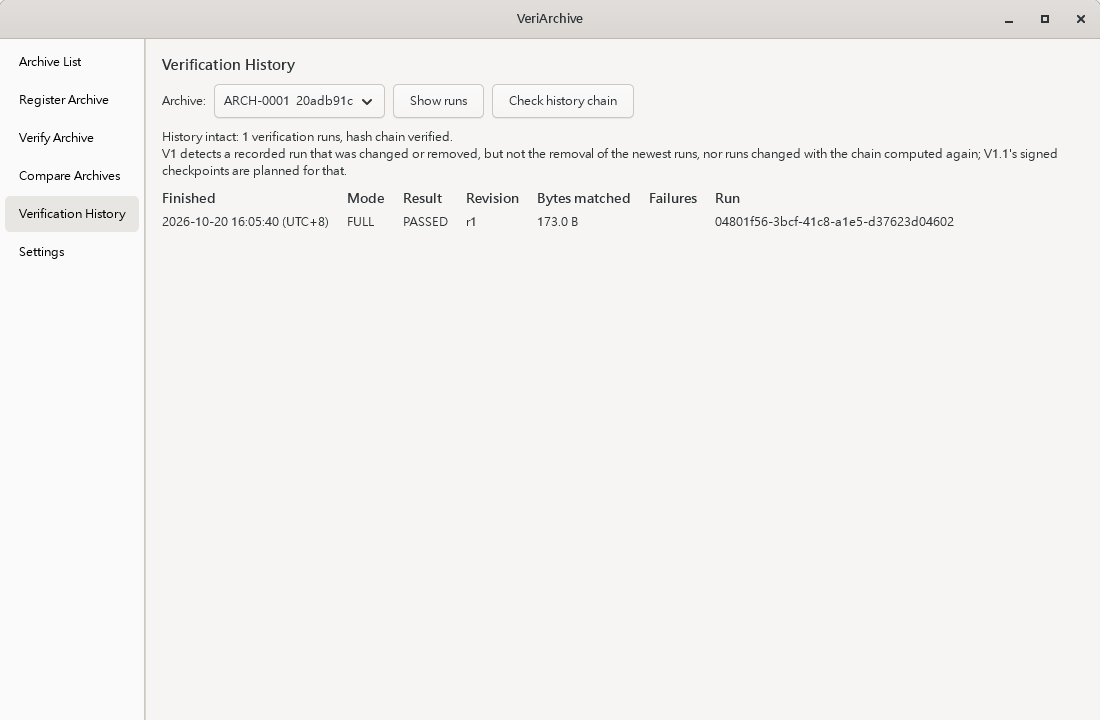
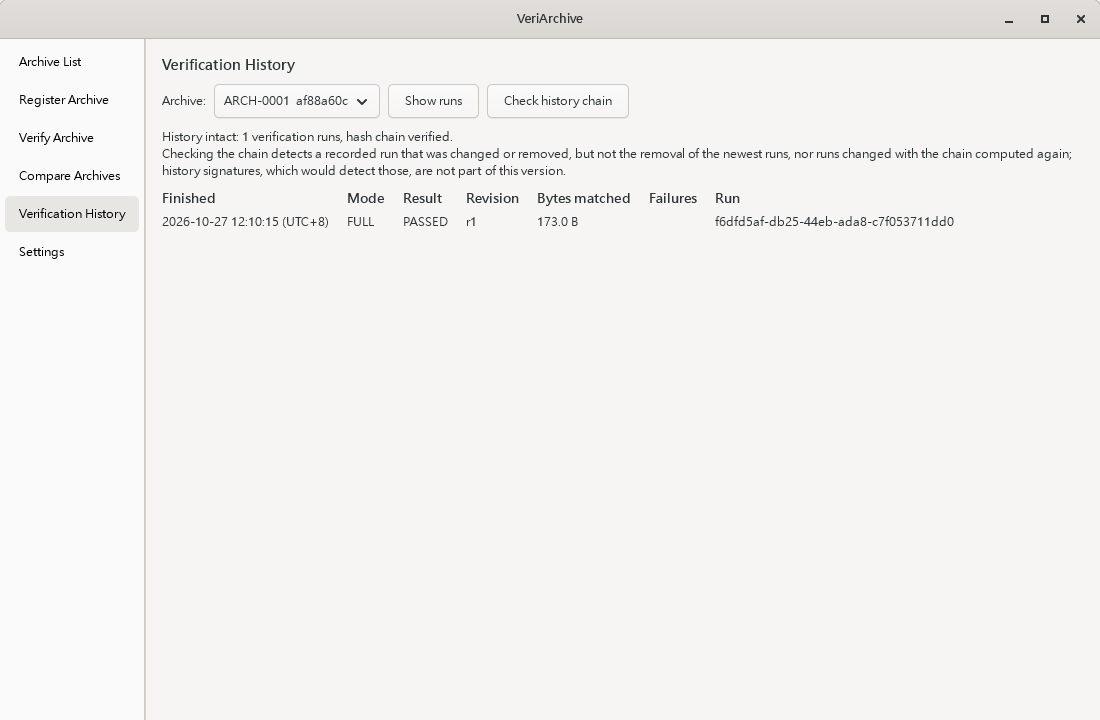
fix: say what this version does not do instead of naming v1.1
- Word R-02's guarantee in every verify report of the CLI and the GUI as "VeriArchive detects accidental corruption and unintended change; tamper evidence (signed manifests) is not part of this version.", which stays true in 1.0.0 and 1.1.0, and keep the --json member guarantee with that sentence
- Refuse --quick and --deep with "QUICK and DEEP verification are not available in this version; use --full"
- Say in Settings that signed manifests are not part of this version, and after a check of the history chain that history signatures, which would detect the runs the chain cannot, are not part of this version
- Translate them with the agreed terms 歷程簽章 for history signatures, never 簽章檢查點, and 受信任的金鑰 for trusted keys
- Reword README.md and both guides the same way, and say in the guides that QUICK and DEEP verification are not part of this version
- Fail the catalog test on any entry that names a version of the program, and check the guarantee, its --json member, the refusal and the history note in both languages in the end-to-end test
- Take the screenshots of both guides again from the tool's sample data, as Settings, Verify Archive and Verification History show the new texts
- Record in decision 0017 that interface texts name no version of the program, and note it at R-02

diff --git a/src/app/text_zh_tw.cpp b/src/app/text_zh_tw.cpp
@@ -119,11 +119,13 @@ constexpr CatalogEntry entries[] = {
     {"first-run:home", "第一次使用（個人資料夾）"},
     {"History intact: {} verification runs, hash chain verified.",
         "歷程完整：共 {} 次驗證執行，雜湊鏈已驗證。"},
-    // What a check of the chain tells in V1, from src/app/history.h; the GUI shows it too.
-    {"V1 detects a recorded run that was changed or removed, but not the removal of the newest runs, nor runs "
-        "changed with the chain computed again; V1.1's signed checkpoints are planned for that.",
-        "V1 可偵測已記錄的執行紀錄被修改或刪除，但偵測不到最新幾筆執行紀錄被刪除，也偵測不到修改後連雜湊鏈都"
-        "重新計算過的紀錄；V1.1 預計以簽章檢查點補上這一點。"},
+    // What a check of the chain tells, from src/app/history.h; the GUI shows it too.
+    // Signed history checkpoints are 歷程簽章, kept apart from the 檢查點 of a resume.
+    {"Checking the chain detects a recorded run that was changed or removed, but not the removal of the newest "
+        "runs, nor runs changed with the chain computed again; history signatures, which would detect those, are "
+        "not part of this version.",
+        "檢查歷程鏈可偵測已記錄的執行紀錄被修改或刪除，但偵測不到最新幾筆執行紀錄被刪除，也偵測不到修改後連雜湊鏈都"
+        "重新計算過的紀錄；能偵測這些情況的歷程簽章，這個版本尚未提供。"},
     {"History BROKEN at run {}: {}", "歷程於執行 {} 處斷裂：{}"},
     {"previous row was deleted or edited (prev_hash does not link)",
         "前一筆紀錄已被刪除或修改（prev_hash 無法銜接）"},
@@ -209,11 +211,11 @@ constexpr CatalogEntry entries[] = {
         "若要繼續，請執行：veriarchive-cli verify --full {} --resume {}"},
     {"resumed from run: {}", "已從執行 {} 繼續"},
     {"run: {}", "執行：{}"},
-    {"V1 detects accidental corruption and unintended change; "
-        "tamper evidence (signed manifests) begins in V1.1.",
-        "V1 可偵測意外損毀與非預期的變更；竄改證據（簽章清單檔）自 V1.1 起提供。"},
-    {"QUICK and DEEP verification arrive in V1.1; use --full",
-        "快速驗證與深度驗證將於 V1.1 提供；請使用 --full"},
+    {"VeriArchive detects accidental corruption and unintended change; "
+        "tamper evidence (signed manifests) is not part of this version.",
+        "VeriArchive 能偵測意外損毀與非預期的變更；這個版本尚未提供竄改證據（簽章清單檔）。"},
+    {"QUICK and DEEP verification are not available in this version; use --full",
+        "這個版本尚未提供快速驗證與深度驗證；請使用 --full"},
     {"usage: verify --full <root_path|archive_uuid> [--strict-metadata] [--io hdd|ssd] "
         "[--resume RUN_ID]",
         "用法：verify --full <root_path|archive_uuid> [--strict-metadata] [--io hdd|ssd] "
@@ -521,8 +523,8 @@ constexpr CatalogEntry entries[] = {
         "逾期期限：完整驗證 {} 天，任何驗證 {} 天"},
     {"Strict metadata: on", "嚴格中繼資料：開啟"},
     {"Strict metadata: off", "嚴格中繼資料：關閉"},
-    {"Trusted signing keys: signed manifests arrive in V1.1.",
-        "受信任的簽章金鑰：簽章清單檔將於 V1.1 提供。"},
+    {"Trusted signing keys: signed manifests are not part of this version.",
+        "受信任的金鑰：這個版本尚未提供簽章清單檔。"},
     {"Back up RepositoryRoot. Losing it loses all verification history; "
         "manifests can be recovered only from media copies, if they were written.",
         "請備份儲存庫根目錄。遺失它會失去所有驗證歷程；"

diff --git a/tests/unit/text_test.cpp b/tests/unit/text_test.cpp
@@ -42,6 +42,24 @@ std::size_t occurrences(std::string_view text, std::string_view part)
     return count;
 }
 
+// True when `text` names a version of the program as the specification does,
+// "V" and a digit at the start of a word ("V1", "V1.1"): an interface text that
+// promises something for a version stays true in no other (decision 0017).
+bool names_a_version(std::string_view text)
+{
+    const auto letter_or_digit = [](char character) {
+        return (character >= 'a' && character <= 'z') || (character >= 'A' && character <= 'Z') ||
+               (character >= '0' && character <= '9');
+    };
+    for (std::size_t index = 0; index + 1 < text.size(); ++index) {
+        if (text[index] == 'V' && text[index + 1] >= '0' && text[index + 1] <= '9' &&
+            (index == 0 || !letter_or_digit(text[index - 1]))) {
+            return true;
+        }
+    }
+    return false;
+}
+
 // True when every brace in `text` belongs to a placeholder: "{}", or with
 // `positional` also "{0}", "{1}", ... Format specs ("{:s}") and escaped braces
 // are left out on purpose: engine sentences are filled by the simple matcher in
@@ -72,7 +90,8 @@ bool plain_placeholders(std::string_view text, bool positional)
 // that take the same values, each value exactly once, written only as "{}"
 // (and "{0}", "{1}", ... in the translation); no English text appears twice; a
 // template matched against sentences has enough literal text that it cannot
-// match everything; the match mode fits the template.
+// match everything; the match mode fits the template. No entry names a version
+// of the program: what a version does not do yet is said of "this version".
 void catalog_tests()
 {
     std::set<std::string_view> seen;
@@ -80,6 +99,12 @@ void catalog_tests()
         const bool unique = seen.insert(entry.english).second;
         CHECK(unique);
         CHECK(!entry.english.empty() && !entry.translation.empty());
+
+        const bool versionless = !names_a_version(entry.english) && !names_a_version(entry.translation);
+        CHECK(versionless);
+        if (!versionless) {
+            std::cerr << "  names a version of the program: " << entry.english << '\n';
+        }
 
         const bool plain = plain_placeholders(entry.english, false) &&
                            plain_placeholders(entry.translation, true);
@@ -230,11 +255,12 @@ void translation_tests()
     CHECK(chinese("error: 12 entries carry portability warnings") ==
           "錯誤：12 entries carry portability warnings");
 
-    // What a check of the history chain tells in V1 (app/history.h), which
-    // the command line and the GUI show after a chain that holds.
+    // What a check of the history chain tells (app/history.h), which the
+    // command line and the GUI show after a chain that holds. Signed history
+    // checkpoints are 歷程簽章, never the 檢查點 of a resume.
     CHECK(chinese(va::app::history_chain_limits) ==
-          "V1 可偵測已記錄的執行紀錄被修改或刪除，但偵測不到最新幾筆執行紀錄被刪除，也偵測不到修改後連雜湊鏈都"
-          "重新計算過的紀錄；V1.1 預計以簽章檢查點補上這一點。");
+          "檢查歷程鏈可偵測已記錄的執行紀錄被修改或刪除，但偵測不到最新幾筆執行紀錄被刪除，也偵測不到修改後連雜湊鏈都"
+          "重新計算過的紀錄；能偵測這些情況的歷程簽章，這個版本尚未提供。");
 
     // FormatOnly templates are used through format and never match sentences.
     CHECK(chinese.format("{} archives", 3) == "3 個封存");

diff --git a/src/app/history.h b/src/app/history.h
@@ -11,14 +11,17 @@
 namespace va::app {
 
 // What a check of the history's hash chain (R-18, R-90: `repo
-// verify-history`, Check history chain) tells in V1, shown after a chain
-// that holds. The chain links each run to the one before it, so a changed run
+// verify-history`, Check history chain) tells, shown after a chain that
+// holds. The chain links each run to the one before it, so a changed run
 // breaks it, and so does a removed run that later runs follow; the newest runs
 // removed, or runs changed by someone who computes the chain again, leave a
-// chain that holds. V1.1's signed checkpoints (R-76) are planned for that.
+// chain that holds. Signed history checkpoints (R-76), history signatures in
+// the interface, would tell those; the text names no version of the program
+// for them (decision 0017).
 inline constexpr std::string_view history_chain_limits =
-    "V1 detects a recorded run that was changed or removed, but not the removal of the newest runs, nor runs "
-    "changed with the chain computed again; V1.1's signed checkpoints are planned for that.";
+    "Checking the chain detects a recorded run that was changed or removed, but not the removal of the newest "
+    "runs, nor runs changed with the chain computed again; history signatures, which would detect those, are "
+    "not part of this version.";
 
 // What else a run is, in the words shown beside it: "interrupted relocation
 // attempt" for an attempt of a relocation that was interrupted (recorded

diff --git a/src/cli/verify_commands.cpp b/src/cli/verify_commands.cpp
@@ -15,10 +15,11 @@
 namespace va::cli {
 namespace {
 
-// R-02. Translated in text output; --json keeps the English sentence.
+// R-02. Translated in text output; --json keeps the English sentence. It names
+// no version of the program (decision 0017).
 constexpr const char* guarantee =
-    "V1 detects accidental corruption and unintended change; tamper evidence "
-    "(signed manifests) begins in V1.1.";
+    "VeriArchive detects accidental corruption and unintended change; tamper evidence "
+    "(signed manifests) is not part of this version.";
 
 int result_code(const std::string& result)
 {
@@ -115,7 +116,7 @@ int verify_command(const Arguments& arguments)
 {
     if (arguments.has("--quick") || arguments.has("--deep")) {
         return report_failure(arguments, {exit_code::usage,
-            "QUICK and DEEP verification arrive in V1.1; use --full"});
+            "QUICK and DEEP verification are not available in this version; use --full"});
     }
     if (const auto problem = check_options(arguments, {"--full", "--strict-metadata"}, {"--io", "--resume"})) {
         return report_failure(arguments, *problem);

diff --git a/src/gui/settings_view.cpp b/src/gui/settings_view.cpp
@@ -58,7 +58,7 @@ void refresh_settings(GuiState& state)
                text.format("Overdue after: FULL verify {} days, any verify {} days",
                    policy.full_verify_max_age_days, policy.any_verify_max_age_days) + "\n" +
                text(policy.strict_metadata ? "Strict metadata: on" : "Strict metadata: off") + "\n\n" +
-               text("Trusted signing keys: signed manifests arrive in V1.1.") + "\n\n" +
+               text("Trusted signing keys: signed manifests are not part of this version.") + "\n\n" +
                text("Back up RepositoryRoot. Losing it loses all verification history; manifests "
                     "can be recovered only from media copies, if they were written.");
         for (const auto& warning : state.session->warnings) {

diff --git a/src/gui/verify_view.cpp b/src/gui/verify_view.cpp
@@ -17,8 +17,8 @@ namespace va::gui {
 namespace {
 
 constexpr const char* guarantee =
-    "V1 detects accidental corruption and unintended change; tamper evidence (signed manifests) "
-    "begins in V1.1.";
+    "VeriArchive detects accidental corruption and unintended change; tamper evidence (signed manifests) "
+    "is not part of this version.";
 
 std::string report(const app::Text& text, const VerifyOutcome& outcome)
 {

diff --git a/design/decisions/0017-interface-language.md b/design/decisions/0017-interface-language.md
@@ -1,7 +1,7 @@
 ---
 status: accepted
 date: 2026-10-08
-amends: HANDOFF §B7.3 (config keys), §B16 (global options), §B17 (Settings)
+amends: HANDOFF §B7.3 (config keys), §B16 (global options), §B17 (Settings); R-02 (§A1: how reports and the GUI word the guarantee, 2026-10-27)
 ---
 
 # The interface speaks English and Traditional Chinese
@@ -34,6 +34,19 @@ On Windows the CLI writes text for a console window as UTF-16 (`WriteConsoleW`),
 
 If the GUI ends unexpectedly, it appends the reason to `veriarchive-gui.log` in the user config folder (`%APPDATA%\VeriArchive` on Windows); an exception in a button or other GTK callback is shown in the view instead of ending the program.
 
+## What this version does not do (2026-10-27)
+
+The texts of the CLI and the GUI, the catalog, the user guides and the README never name a version of the program (V1, V1.1, 1.0.0) for what it does or does not do. The specification's milestones are not the numbers of the programs: 1.1.0 holds only the first stage of V1.1, so "tamper evidence begins in V1.1" was untrue in the very version it named. What this version does not do yet is said of "this version", which stays true in every version that lacks the feature, whatever its number, and goes when the feature comes:
+
+- R-02's guarantee, in every verify report of the CLI and the GUI: "VeriArchive detects accidental corruption and unintended change; tamper evidence (signed manifests) is not part of this version." `--json` gives the same English sentence in `guarantee`.
+- The refusal of `verify --quick|--deep` (exit 10): "QUICK and DEEP verification are not available in this version; use --full".
+- Settings: "Trusted signing keys: signed manifests are not part of this version."
+- After a check of the history chain: "... history signatures, which would detect those, are not part of this version."
+
+A unit test fails on a catalog entry that names a version in either language ("V" and a digit at the start of a word); the end-to-end test checks the guarantee, its `--json` member and the refusal in both languages.
+
+Signed history checkpoints (R-76) are history signatures in the interface, 歷程簽章 in Chinese, never 簽章檢查點: 檢查點 is the checkpoint of a resume (operator's plan, item 4-3).
+
 ## Implementation
 
 English is the source language: the code keeps writing English. `va::app::Text` translates a message (`text("Settings")`) or a template with values (`text.format("Registered {} revision {}", label, revision)`). The compiler checks each English template against its values, as `std::format` does; a translation that does not fit is replaced by the English text rather than failing.
@@ -56,6 +69,8 @@ The catalog is C++ (`src/app/text_zh_tw.cpp`), not gettext `.po`/`.mo`: no extra
 | verify, FULL verify | 驗證、完整驗證 |
 | run, resume, checkpoint | 執行、繼續、檢查點 |
 | history, history chain | 歷程、歷程鏈 |
+| history signature (a signed history checkpoint, R-76) | 歷程簽章 |
+| tamper evidence, signed manifest, trusted key | 竄改證據、簽章清單檔、受信任的金鑰 |
 | volume, disk, carrier, media | 磁碟區、磁碟、載體、媒體 |
 | link (symlink or junction), symlink | 連結、符號連結 |
 | identity | 身分 |

diff --git a/docs/user-guide.md b/docs/user-guide.md
@@ -299,7 +299,7 @@ Choose an archive in "Archive:" and press "Show runs": every verification is lis
 
 An interrupted `archive relocate` is listed there too, as an INCOMPLETE FULL verification of the revision it compared the new carrier with, marked "interrupted relocation attempt": it read the new carrier, not the archive's carrier. While the relocation is unfinished, continue it with `archive relocate <uuid> <root> --resume`; `verify --resume` does not continue it, and says so. The FULL verification with which a relocation recorded the archive's next revision is marked "relocation from r1", r1 being the revision it compared the new carrier with. The GUI shows these marks in a column "Note" at the end of the table, which appears only for an archive that has such runs; `history --json` gives each run `relocation`: null, or the relocation's `run_id`, `from_revision` and `interrupted_attempt`.
 
-The history is a hash chain. In V1, checking it detects a recorded run that was changed or removed, but not the removal of the newest runs, nor runs changed with the chain computed again; V1.1's signed checkpoints are planned for that. To check it:
+The history is a hash chain. Checking it detects a recorded run that was changed or removed, but not the removal of the newest runs, nor runs changed with the chain computed again; history signatures, which would detect those, are not part of this version. To check it:
 
 - GUI: press "Check history chain"
 - CLI: `veriarchive-cli repo verify-history`
@@ -412,7 +412,7 @@ veriarchive-cli --repository D:\OtherRepository import D:\export\r0001.vam   # i
 - If the database is damaged, rebuild the index from the manifests: `veriarchive-cli repo rebuild-index`. Manifests are the truth; the database is an index.
 - Every command accepts `--json` for machine-readable output.
 - Exit codes: 0 passed, 2 passed with warnings, 3 failed, 4 incomplete, 10 usage, 11 repository, 12 needs your decision.
-- V1 detects accidental corruption and unintended change; tamper evidence (signed manifests) begins in V1.1.
+- VeriArchive detects accidental corruption and unintended change; tamper evidence (signed manifests) is not part of this version. Nor are QUICK and DEEP verification, which would read only a sample of the content: every verification of this version reads everything (FULL).
 - VeriArchive needs no administrator rights and should not be run elevated.
 - In PowerShell, run `[Console]::OutputEncoding = [Text.UTF8Encoding]::new()` before capturing, redirecting (`>`) or piping CLI output; otherwise Chinese text is garbled. Output shown directly in the window is not affected.
 - If the GUI closes unexpectedly, the reason is written to `veriarchive-gui.log` in the user config folder (`%APPDATA%\VeriArchive` on Windows, `~/.config/veriarchive` on Linux). Include it when reporting a problem.

diff --git a/README.md b/README.md
@@ -9,12 +9,13 @@ creates backups. Windows and Linux, one codebase.
 - **Verify** later: the media is identified (filesystem and device identity), every registered
   byte is re-read from the disk (bypassing the cache) and compared with the baseline.
 - Results always carry their mode and date: "Last FULL verify: PASSED on …" — never a bare status.
-- Verification history is hash-chained. In V1, checking the chain (`repo verify-history`) detects
-  a recorded run that was changed or removed, but not the removal of the newest runs, nor runs
-  changed with the chain computed again; V1.1's signed checkpoints are planned for that.
+- Verification history is hash-chained. Checking the chain (`repo verify-history`) detects a
+  recorded run that was changed or removed, but not the removal of the newest runs, nor runs
+  changed with the chain computed again; history signatures, which would detect those, are not
+  part of this version.
 
-V1 detects accidental corruption and unintended change. Tamper evidence (signed manifests) begins
-in V1.1.
+VeriArchive detects accidental corruption and unintended change. Tamper evidence (signed
+manifests) is not part of this version.
 
 ## Documentation
 

diff --git a/design/HANDOFF.md b/design/HANDOFF.md
@@ -36,6 +36,8 @@ Each rule has exactly one authoritative section; other sections reference it and
 
 ## A1. Purpose and scope
 
+> Amended by `design/decisions/0017-interface-language.md`: reports and the GUI state R-02's guarantee without naming a version of the program, "VeriArchive detects accidental corruption and unintended change; tamper evidence (signed manifests) is not part of this version."; the milestones V1 and V1.1 are not the program's version numbers.
+
 VeriArchive registers backup/archive media, records integrity evidence, and later verifies whether archived content has been modified, corrupted, deleted, or added to. Windows and Linux, one codebase.
 
 - R-01 VeriArchive detects. It does not repair, restore, or create backups.
